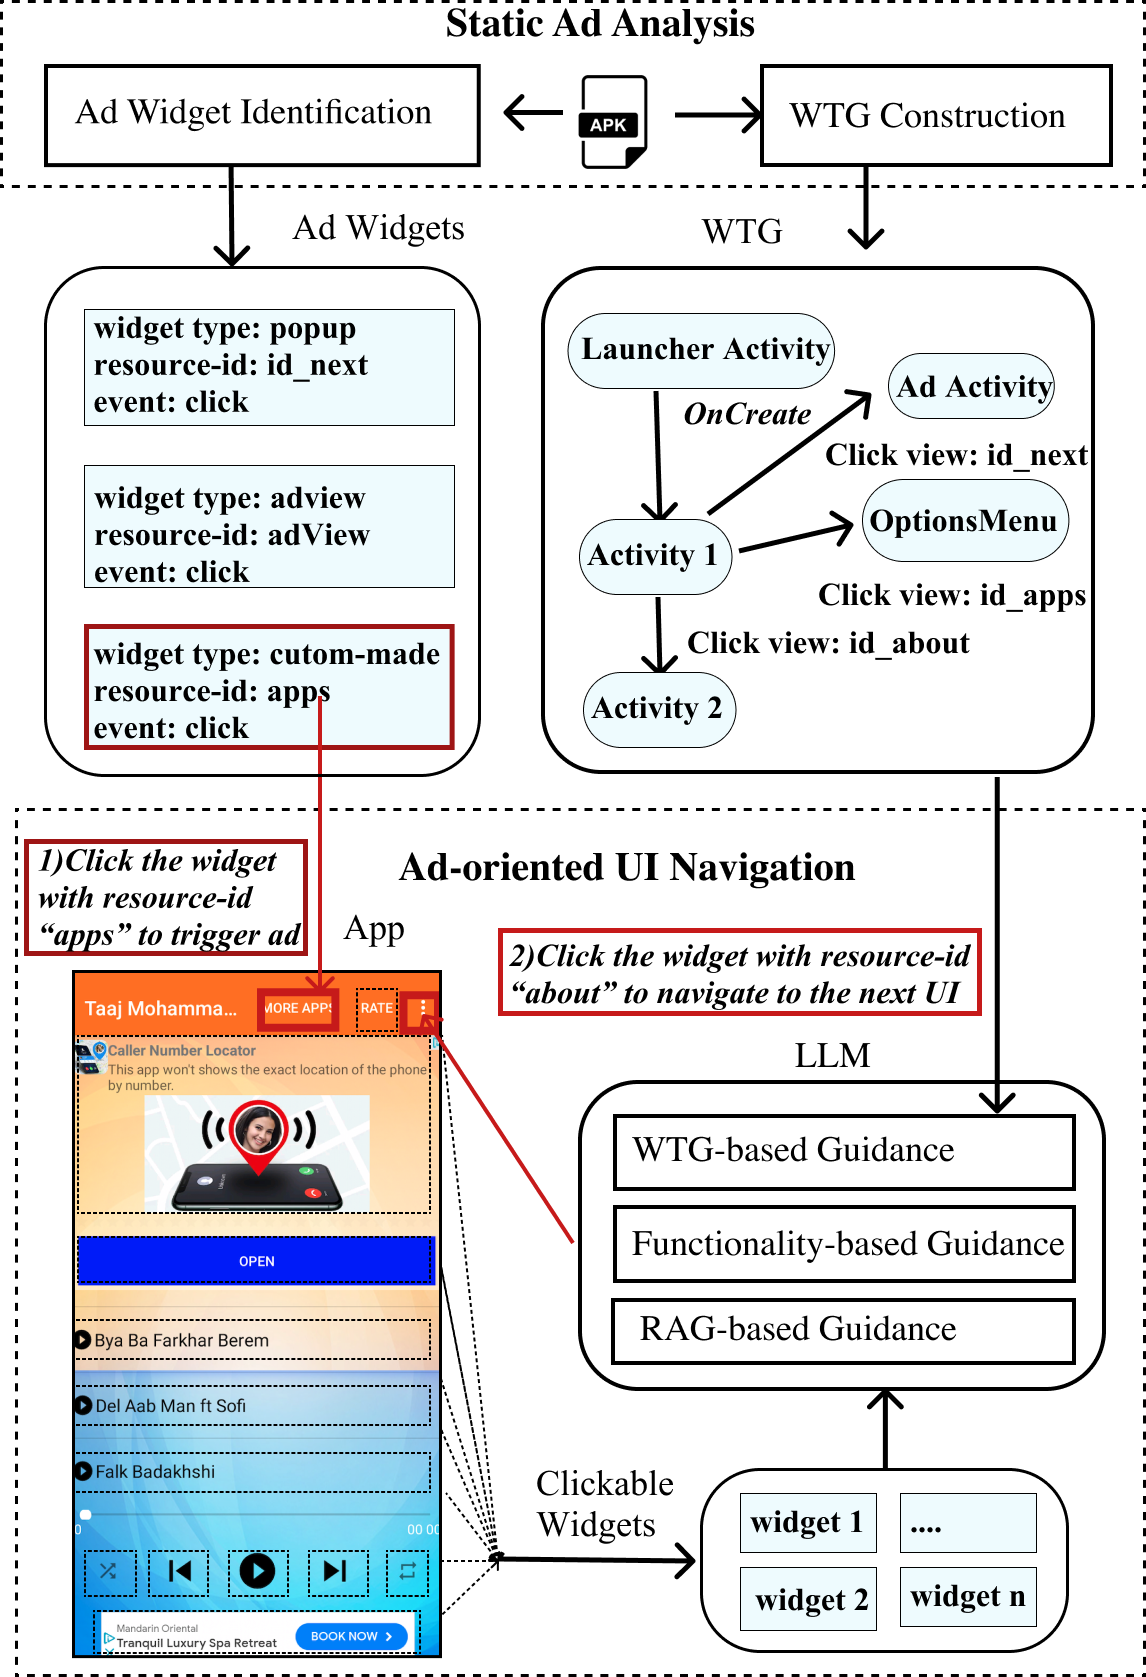
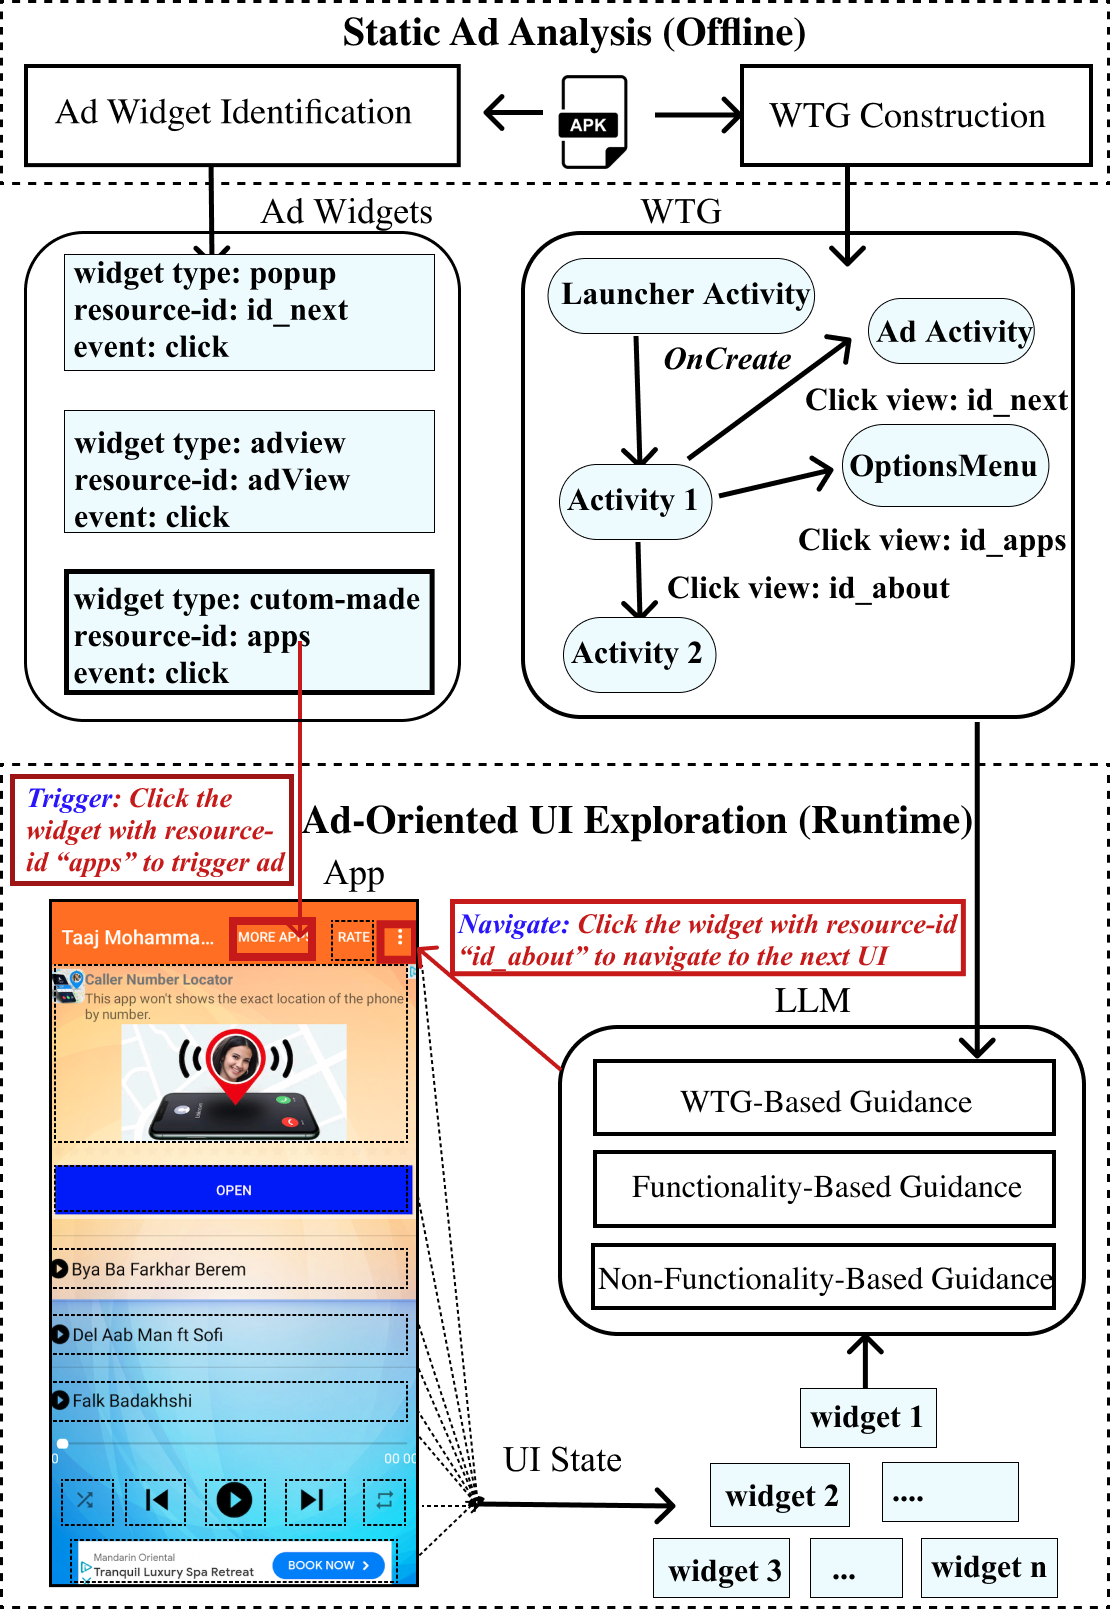
update README

Changed region(s): [[0.0, 0.0, 1.0, 1.0], [0.9802, 0.4661, 1.0, 0.6215]]

diff --git a/README.md b/README.md
@@ -1,14 +1,7 @@
-# AdSuite
-Mobile advertisements (in short as mobile ads) are frequently placed in mobile apps by developers to make profit.
-It is crucial to collect and analyze mobile ads as their prevalence without proper regulation can compromise user experiences and promote malware.  
-However, ads are embedded in different user interfaces (UIs), require non-trivial efforts to navigate to these UIs.
-Existing approaches rely on general-purpose UI navigation, wasting resources on non-ad related UIs, and base detection on runtime features, which become ineffective as ad content changes over time.
+# AdSadel
+Mobile advertisements (ads) are widely integrated into apps. However, without proper regulation, mobile ads can negatively impact user experiences and facilitate malware distribution. Detecting mobile ads for ad regulation is challenging because mobile ads are dynamically retrieved from remote servers and embedded across various user interfaces (UIs), making them difficult to locate.
 
-
-To address these issues, in this paper, we propose a novel approach named AdSuite that synergistically combines static analysis, dynamic UI navigation, and large language model (LLM) to effectively and efficiently detect mobile ads, assisting ad regulation.
-Specifically, AdSuite first conducts static analysis to detect widgets used to place mobile ads, referred to as _ad widgets_, based on their widget attributes and code behaviors. 
-Second, AdSuite instructs an LLM with contextual information to find out the feasible paths leading to the UIs containing ad widgets and triggers the ads widgets based on static analysis's output.
-
+To address these challenges, we propose AdSadel, which innovatively harnesses Large Language Models (LLMs) to unify static analysis and dynamic UI exploration for detecting mobile ads and assisting ad regulation. In particular, AdSadel first develops novel static analysis to build window transition graph (WTG) that represents transitions among UIs and identifies UI widgets used to place ads in the WTG (referred to as ad widgets). AdSadel then instructs the LLM to guide dynamic UI exploration for finding ad widgets based on the static analysis results. More importantly, to guide LLMs in effectively finding ad widgets, we design AdSadel by leveraging insights from two strategies commonly employed by developers for ad widget placement: (1) functionality-based guidance: AdSadel summarizes apps’ functionality as guidance since developers often position ads on UIs that the app’s target users are most likely to visit; (2) non-functionality-based guidance: AdSadel finds similar UIs for the visited UIs from a knowledge base of UIs that contain ad widgets, and generates guidance to help LLMs find ad widgets. The generated guidance, combined with the WTG, allows LLMs to find exploration paths that are more likely to uncover ad widgets. Our evaluation on 30 apps and 156 ad widgets demonstrates the effectiveness of AdSadel in detecting mobile ads with a detection rate of 75.86% and average detection time of 8.52 seconds per ad widget, achieving remarkable lead over existing approaches. Our empirical study on the detected ads finds 34 intrusive ads and 10 ad-promoted malware, demonstrating AdSadel’s practical value in assisting ad regulation.
 ![AdSuite.png](AdSuite.png)
 ## 1.Dataset and Groundtruth
 
@@ -67,13 +60,13 @@ We have put 3 examples `.csv` and `.dot` file there.
 
 
 
-## 3.UI Navigation
+## 3.UI Exploration
 
 
-The Ad-oriented UI Navigation is built upon Guardian [ISSTA 2024] framework. Our modification and enhancement of Guardian is mainly in \
+The Ad-oriented UI Exploration is built upon Guardian [ISSTA 2024] framework. Our modification and enhancement of Guardian is mainly in \
 - [atg.py](UIExploration/atg.py): The code to process WTG dot file, make prompts
 - [rag.py](UIExploration/rag.py): The RAG code
-- [guardian.py](UIExploration/guardian.py): The main UI Navigation framework
+- [guardian.py](UIExploration/guardian.py): The main UI Exploration framework
 
 
 Below are the steps to reproduce our evaluation
